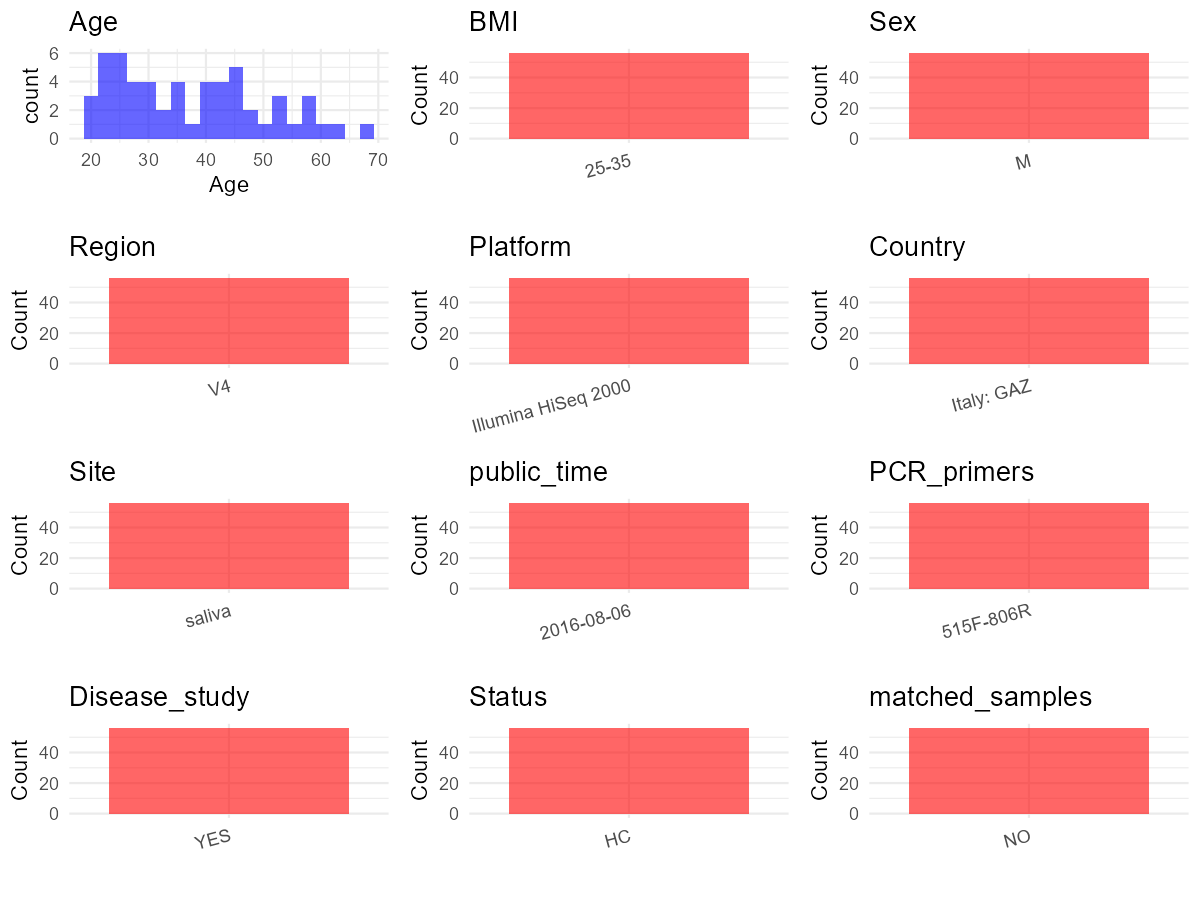
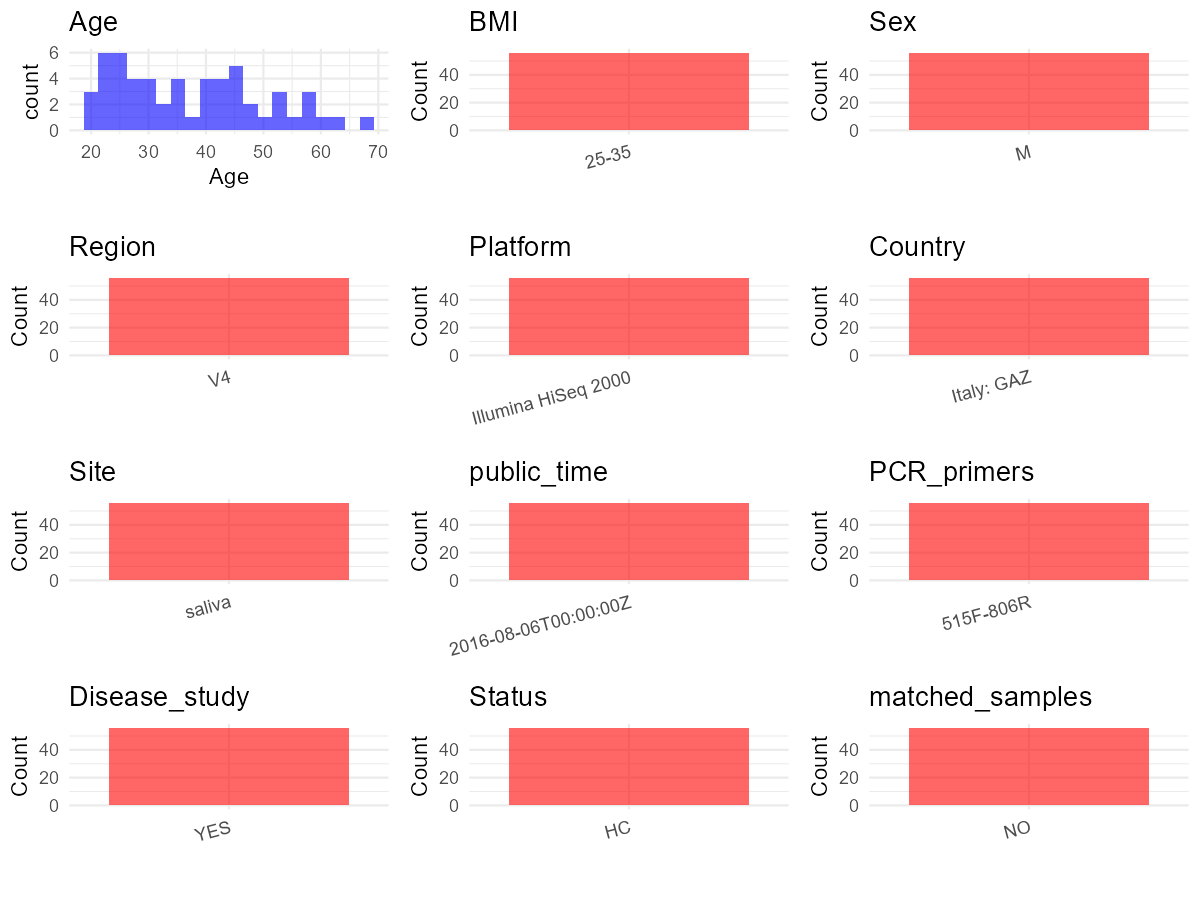
upload files for PRJEB15057

diff --git a/data/projects/PRJEB15057/metadata_curation.md b/data/projects/PRJEB15057/metadata_curation.md
@@ -263,7 +263,7 @@ metadata <- data.frame(
   Platform = initial_meta$Instrument,
   Country = initial_meta$COUNTRY,
   Site = initial_meta$env_material,
-  public_time = "2016-08-06",
+  public_time = initial_meta$ReleaseDate,
   stringsAsFactors = FALSE
 )
 ```
@@ -341,13 +341,13 @@ head(metadata)
     ## 4 PRJEB15057 ERR1558870    958.N.04  34 25-35   M     V4 Illumina HiSeq 2000
     ## 5 PRJEB15057 ERR1558871    958.N.05  21 25-35   M     V4 Illumina HiSeq 2000
     ## 6 PRJEB15057 ERR1558872    958.N.06  22 25-35   M     V4 Illumina HiSeq 2000
-    ##      Country   Site public_time PCR_primers
-    ## 1 Italy: GAZ saliva  2016-08-06   515F-806R
-    ## 2 Italy: GAZ saliva  2016-08-06   515F-806R
-    ## 3 Italy: GAZ saliva  2016-08-06   515F-806R
-    ## 4 Italy: GAZ saliva  2016-08-06   515F-806R
-    ## 5 Italy: GAZ saliva  2016-08-06   515F-806R
-    ## 6 Italy: GAZ saliva  2016-08-06   515F-806R
+    ##      Country   Site          public_time PCR_primers
+    ## 1 Italy: GAZ saliva 2016-08-06T00:00:00Z   515F-806R
+    ## 2 Italy: GAZ saliva 2016-08-06T00:00:00Z   515F-806R
+    ## 3 Italy: GAZ saliva 2016-08-06T00:00:00Z   515F-806R
+    ## 4 Italy: GAZ saliva 2016-08-06T00:00:00Z   515F-806R
+    ## 5 Italy: GAZ saliva 2016-08-06T00:00:00Z   515F-806R
+    ## 6 Italy: GAZ saliva 2016-08-06T00:00:00Z   515F-806R
     ##                                                                                                                                                                                                                    title
     ## 1 Whole-grain wheat consumption reduces inflammation in a randomized controlled trial on overweight and obese subjects with unhealthy dietary and lifestyle behaviors: role of polyphenols bound to cereal dietary fiber
     ## 2 Whole-grain wheat consumption reduces inflammation in a randomized controlled trial on overweight and obese subjects with unhealthy dietary and lifestyle behaviors: role of polyphenols bound to cereal dietary fiber
